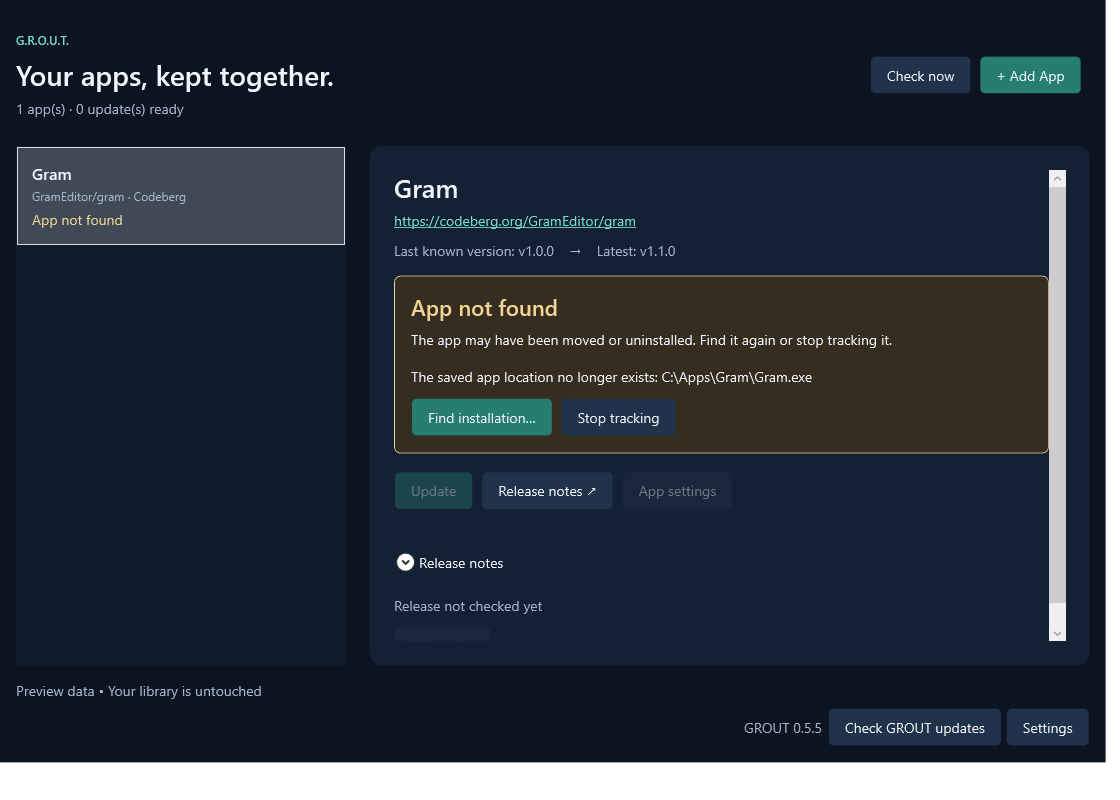
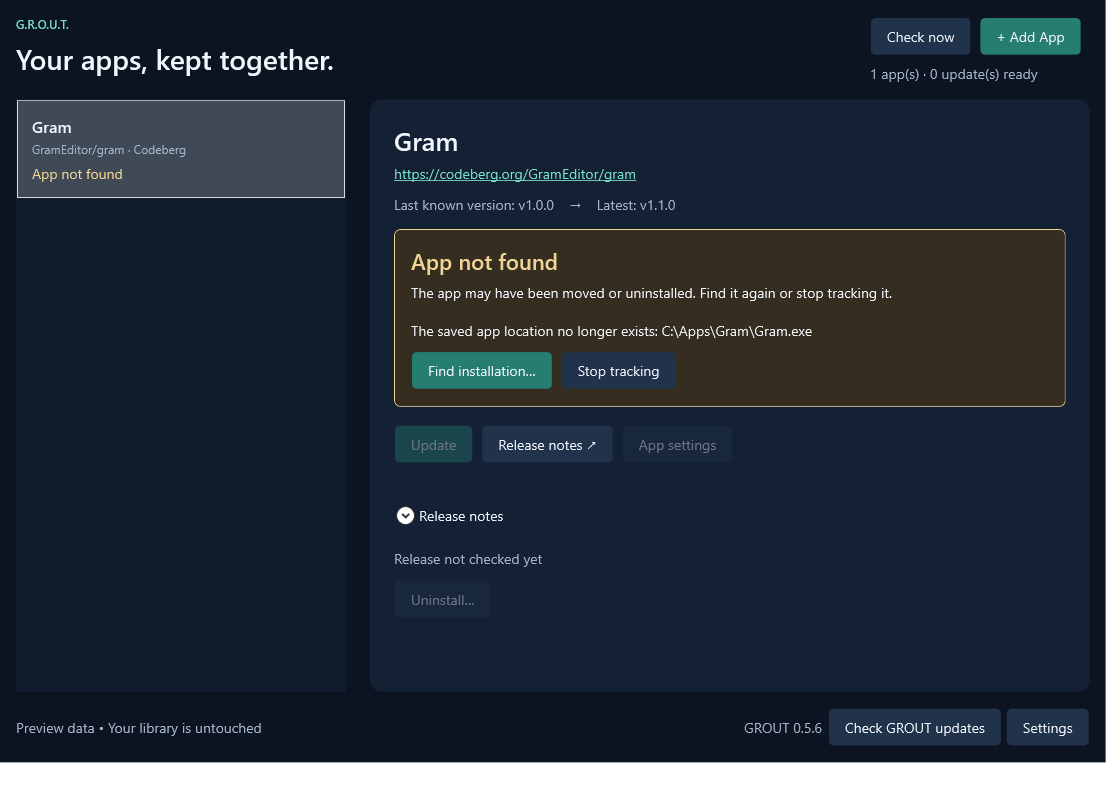
Move check feedback near controls and refine app actions for 0.5.6

diff --git a/ReleaseDock/MainWindow.xaml b/ReleaseDock/MainWindow.xaml
@@ -1,13 +1,13 @@
 <Window x:Class="ReleaseDock.MainWindow" xmlns="http://schemas.microsoft.com/winfx/2006/xaml/presentation" xmlns:x="http://schemas.microsoft.com/winfx/2006/xaml" Title="G.R.O.U.T." Icon="Assets/GROUT.ico" Width="1120" Height="800" MinWidth="940" MinHeight="650" Background="#0C1422" FontFamily="Segoe UI" FontSize="14" WindowStartupLocation="CenterScreen">
- <Grid Margin="16,32,16,16">
+ <Grid Margin="16">
   <Grid.RowDefinitions><RowDefinition Height="Auto"/><RowDefinition Height="*"/><RowDefinition Height="Auto"/></Grid.RowDefinitions>
-  <DockPanel Margin="0,0,0,28">
-   <WrapPanel DockPanel.Dock="Right" VerticalAlignment="Center" Margin="16,0,0,0"><Button x:Name="CheckButton" Content="Check now" Click="Check_Click"/><Button x:Name="AddAppButton" Content="+ Add App" Click="Add_Click" Background="#267E70"/></WrapPanel>
-   <StackPanel><TextBlock Text="G.R.O.U.T." Foreground="#76DCC6" FontSize="12" FontWeight="SemiBold"/><TextBlock Text="Your apps, kept together." FontSize="28" FontWeight="SemiBold" Margin="0,8,0,6"/><TextBlock x:Name="CountLabel" Text="Track releases. Update on your terms." Foreground="#A4B4C9"/></StackPanel>
+  <DockPanel Margin="0,0,0,16">
+   <StackPanel DockPanel.Dock="Right" VerticalAlignment="Center" Margin="16,0,0,0"><WrapPanel><Button x:Name="CheckButton" Content="Check now" Click="Check_Click"/><Button x:Name="AddAppButton" Content="+ Add App" Click="Add_Click" Background="#267E70"/></WrapPanel><TextBlock x:Name="CountLabel" Text="Track releases. Update on your terms." Foreground="#A4B4C9" Margin="0,8,0,0"/></StackPanel>
+   <StackPanel><TextBlock Text="G.R.O.U.T." Foreground="#76DCC6" FontSize="12" FontWeight="SemiBold"/><TextBlock Text="Your apps, kept together." FontSize="28" FontWeight="SemiBold" Margin="0,8,0,6"/></StackPanel>
   </DockPanel>
   <Grid Grid.Row="1"><Grid.ColumnDefinitions><ColumnDefinition Width="330"/><ColumnDefinition Width="24"/><ColumnDefinition Width="*"/></Grid.ColumnDefinitions>
    <ListBox x:Name="Library" Background="#101C2D" BorderThickness="0" Foreground="White" HorizontalContentAlignment="Stretch" SelectionChanged="Selected">
-    <ListBox.ItemTemplate><DataTemplate><StackPanel Margin="10,14"><TextBlock Text="{Binding AppName}" FontSize="16" FontWeight="SemiBold" TextTrimming="CharacterEllipsis"/><TextBlock Text="{Binding ProjectLabel}" Foreground="#A4B4C9" FontSize="12" Margin="0,4,0,0" TextTrimming="CharacterEllipsis" ToolTip="{Binding ProjectLabel}"/><TextBlock Text="{Binding DisplayStatus}" Foreground="{Binding StatusColor}" Margin="0,6,0,0" TextWrapping="Wrap"/></StackPanel></DataTemplate></ListBox.ItemTemplate>
+    <ListBox.ItemTemplate><DataTemplate><StackPanel Margin="10,14"><TextBlock Text="{Binding AppName}" FontSize="16" FontWeight="SemiBold" TextTrimming="CharacterEllipsis"/><TextBlock Text="{Binding ProjectLabel}" Foreground="#A4B4C9" FontSize="12" Margin="0,4,0,0" TextTrimming="CharacterEllipsis" ToolTip="{Binding ProjectLabel}"/><TextBlock Text="{Binding DisplayStatus}" ToolTip="{Binding Error}" Foreground="{Binding StatusColor}" Margin="0,6,0,0" TextWrapping="Wrap"/></StackPanel></DataTemplate></ListBox.ItemTemplate>
    </ListBox>
    <Border Grid.Column="2" Background="#142033" CornerRadius="12" Padding="24">
     <ScrollViewer VerticalScrollBarVisibility="Auto" HorizontalScrollBarVisibility="Disabled"><StackPanel>
@@ -16,9 +16,10 @@
      <StackPanel x:Name="Details" Visibility="Collapsed">
       <TextBlock x:Name="StateLabel" Foreground="#76DCC6" FontSize="18" Margin="0,0,0,16"/>
       <Border x:Name="MissingBanner" Visibility="Collapsed" Background="#352D20" BorderBrush="#F0D495" BorderThickness="1" CornerRadius="6" Padding="16" Margin="0,0,0,18"><StackPanel><TextBlock Text="App not found" Foreground="#F0D495" FontSize="22" FontWeight="SemiBold"/><TextBlock x:Name="MissingMessage" TextWrapping="Wrap" Margin="0,8,0,12"/><WrapPanel><Button x:Name="FindInstallationButton" Content="Find installation…" Click="FindInstallation_Click" Background="#267E70"/><Button Content="Stop tracking" Click="Remove_Click"/></WrapPanel></StackPanel></Border><WrapPanel><Button x:Name="UpdateButton" Content="Update" Background="#267E70" Click="Update_Click" ToolTipService.ShowOnDisabled="True"/><Button Content="Release notes ↗" Click="Release_Click"/><Button x:Name="AppSettingsButton" Content="App settings" Click="AppSettings_Click"/></WrapPanel>
+      <TextBlock x:Name="ActionErrorLabel" Foreground="#F0D495" TextWrapping="Wrap" Margin="0,8,0,0"><TextBlock.Style><Style TargetType="TextBlock"><Style.Triggers><Trigger Property="Text" Value=""><Setter Property="Visibility" Value="Collapsed"/></Trigger></Style.Triggers></Style></TextBlock.Style></TextBlock>
       <TextBlock x:Name="MethodLabel" Foreground="#A4B4C9" TextWrapping="Wrap" Margin="0,14,0,8"/>
       <TextBlock x:Name="UpdateStateLabel" TextWrapping="Wrap" Foreground="#F0D495" Margin="0,0,0,10"/>
-      <WrapPanel Margin="0,0,0,12"><Button x:Name="AppFolderButton" Content="Open app folder" Click="AppFolder_Click"/><Button x:Name="DownloadedButton" Content="Open downloaded package folder" Click="Downloaded_Click"/></WrapPanel>
+      <WrapPanel Margin="0,0,0,12"><Button x:Name="AppFolderButton" Content="Open app folder" Click="AppFolder_Click"/><Button x:Name="DownloadedButton" Content="Show downloaded file" Click="Downloaded_Click"/></WrapPanel>
       <Expander x:Name="VersionSection" Header="Installed version" Foreground="#F1F5FC" Margin="0,10,0,12">
        <StackPanel Margin="0,12,0,0">
         <TextBlock x:Name="LocalLabel" Foreground="#A4B4C9" TextWrapping="Wrap" Margin="0,0,0,12"/>
@@ -38,15 +39,16 @@
   <StackPanel Grid.Row="2" Margin="0,16,0,0">
    <ProgressBar x:Name="Progress" Height="4" Minimum="0" Maximum="100" Visibility="Collapsed" Margin="0,0,0,10"/>
    <Button x:Name="CancelDownload" Content="Cancel download" Click="Cancel_Click" Visibility="Collapsed" HorizontalAlignment="Left" Margin="0,0,0,10"/>
-   <TextBlock x:Name="StatusLabel" Foreground="#A4B4C9" TextWrapping="Wrap" Margin="0,0,12,8">
-    <TextBlock.Style><Style TargetType="TextBlock"><Style.Triggers><Trigger Property="Text" Value=""><Setter Property="Visibility" Value="Collapsed"/></Trigger></Style.Triggers></Style></TextBlock.Style>
-   </TextBlock>
-   <WrapPanel HorizontalAlignment="Right">
-    <TextBlock x:Name="SelfUpdateLabel" VerticalAlignment="Center" Foreground="#A4B4C9" Margin="0,0,6,0"/>
-    <Button x:Name="CheckSelfButton" Content="Check GROUT updates" Click="CheckSelf_Click" Margin="0,0,4,0"/>
-    <Button x:Name="InstallSelfButton" Content="Update and restart" Click="InstallSelf_Click" Visibility="Collapsed" Background="#267E70" Margin="0,0,4,0"/>
-    <Button x:Name="SettingsButton" Content="Settings" Click="Settings_Click" Margin="0"/>
-   </WrapPanel>
+   <Grid>
+    <Grid.ColumnDefinitions><ColumnDefinition Width="*"/><ColumnDefinition Width="Auto"/></Grid.ColumnDefinitions>
+    <TextBlock x:Name="StatusLabel" Foreground="#A4B4C9" VerticalAlignment="Center" TextTrimming="CharacterEllipsis" Margin="0,0,12,0" ToolTip="{Binding Text, RelativeSource={RelativeSource Self}}"/>
+    <StackPanel Grid.Column="1" Orientation="Horizontal">
+     <TextBlock x:Name="SelfUpdateLabel" VerticalAlignment="Center" Foreground="#A4B4C9" Margin="0,0,6,0"/>
+     <Button x:Name="CheckSelfButton" Content="Check GROUT updates" Click="CheckSelf_Click" Margin="0,0,4,0"/>
+     <Button x:Name="InstallSelfButton" Content="Update and restart" Click="InstallSelf_Click" Visibility="Collapsed" Background="#267E70" Margin="0,0,4,0"/>
+     <Button x:Name="SettingsButton" Content="Settings" Click="Settings_Click" Margin="0"/>
+    </StackPanel>
+   </Grid>
   </StackPanel>
  </Grid>
 </Window>

diff --git a/ReleaseDock/MainWindow.xaml.cs b/ReleaseDock/MainWindow.xaml.cs
@@ -14,7 +14,7 @@ public partial class MainWindow : Window
     private readonly ReleaseClient github = new();
     private readonly SelfUpdater selfUpdater = new();
     private SelfRelease? selfRelease;
-    private bool selfChecking;
+    private bool selfChecking, checkingApps;
     private readonly Store store;
     private readonly string preferencesPath;
     private Preferences preferences = new();
@@ -143,7 +143,7 @@ public partial class MainWindow : Window
         var app = Current;
         CheckSelfButton.IsEnabled = InstallSelfButton.IsEnabled = !busy && !selfChecking;
         if (SelfUpdateLabel.Text.Length == 0) SelfUpdateLabel.Text = "GROUT " + SelfUpdater.CurrentLabel;
-        CountLabel.Text = $"{apps.Count} app(s) · {apps.Count(a => a.CanUpdate && ReleaseFiles.Match(a) != null)} update(s) ready";
+        CountLabel.Text = checkingApps ? "Checking for updates…" : $"{apps.Count} app(s) · {apps.Count(a => a.CanUpdate && ReleaseFiles.Match(a) != null)} update(s) ready";
         AddAppButton.IsEnabled = AppSettingsButton.IsEnabled = SettingsButton.IsEnabled = CheckButton.IsEnabled = !busy;
         VersionSection.IsEnabled = UninstallButton.IsEnabled = RecoveryButton.IsEnabled = RemoveButton.IsEnabled = !busy;
         Details.Visibility = app == null ? Visibility.Collapsed : Visibility.Visible;
@@ -166,8 +166,9 @@ public partial class MainWindow : Window
         UpdateButton.ToolTip = busy ? "Wait for the current operation to finish." : app?.Error.Length > 0 ? "The release check failed. Check now or review App settings." : app is { AutoReconcile: true, LocalError: true } ? "Installed version could not be verified. Recheck it or enter it manually." : app?.IsOlderRelease == true ? "The available version is older than the installed version. Automatic downgrades are disabled; review the release channel in App settings." : app?.Installed.Length == 0 ? "Set the installed version or configure detection first." : app?.IsCurrent == true ? "This app is up to date." : asset == null ? "Choose a release download in App settings." : "Apply the configured update method.";
         MethodLabel.Text = app == null ? "" : ReleaseFiles.Label(app.UpdateMethod) + (asset == null ? " · Choose a release file in App settings" : app.UpdateMethod is "Zip" or "ReplaceExe" ? " → " + app.UpdateTarget : "");
         UpdateStateLabel.Text = app == null || missing ? "" : string.Join("\n", new[] { app.Error, app.UpdateState }.Where(s => s.Length > 0));
-        DownloadedButton.Visibility = app != null && File.Exists(app.DownloadedPath) ? Visibility.Visible : Visibility.Collapsed;
-        AppFolderButton.Visibility = !missing && app != null && AppLocationDraft.From(app).Folder.Length > 0 ? Visibility.Visible : Visibility.Collapsed;
+        DownloadedButton.Visibility = app?.UpdateMethod == "Manual" && File.Exists(app.DownloadedPath) ? Visibility.Visible : Visibility.Collapsed;
+        AppFolderButton.Visibility = app != null && AppLocationDraft.From(app).Folder.Length > 0 ? Visibility.Visible : Visibility.Collapsed;
+        AppFolderButton.IsEnabled = !busy && !missing && app != null && Directory.Exists(AppLocationDraft.From(app).Folder);
         RecoveryButton.Visibility = app != null && File.Exists(Path.Combine(app.LastBackup, "recovery.json")) ? Visibility.Visible : Visibility.Collapsed;
         KeepTrackingButton.Visibility = app?.UninstallPending == true ? Visibility.Visible : Visibility.Collapsed;
         Notes.Text = app?.Release?.Notes ?? "Check for releases to load notes.";
@@ -195,10 +196,10 @@ public partial class MainWindow : Window
     private async Task CheckAll(bool manual)
     {
         if (busy || preview || OwnedWindows.Count > 0) return;
-        busy = true; preferences.LastAttempt = DateTimeOffset.UtcNow;
+        busy = true; checkingApps = true; preferences.LastAttempt = DateTimeOffset.UtcNow;
         try
         {
-            StatusLabel.Text = "Checking releases…"; Render();
+            Render();
             var alerts = new List<TrackedApp>();
             foreach (var app in apps.ToList())
             {
@@ -210,10 +211,10 @@ public partial class MainWindow : Window
             if (apps.All(a => a.Error.Length == 0)) { preferences.LastSuccess = DateTimeOffset.UtcNow; preferences.RetryAfter = null; }
             Persist();
             if (alerts.Count > 0) tray?.ShowBalloonTip(8000, $"{alerts.Count} app update(s) available", string.Join("\n", alerts.Take(4).Select(a => a.Repo + " · " + a.Latest)), Forms.ToolTipIcon.Info);
-            StatusLabel.Text = $"{apps.Count(a => a.CanUpdate)} update(s) available · {apps.Count(a => a.Error.Length > 0)} check(s) failed";
+
         }
         catch (Exception ex) { StatusLabel.Text = ex.Message; SafePersist(); }
-        finally { busy = false; Render(); }
+        finally { checkingApps = false; busy = false; Render(); }
     }
     private void Add_Click(object sender, RoutedEventArgs e)
     {
@@ -221,7 +222,7 @@ public partial class MainWindow : Window
         var wizard = new SetupWindow(github, apps.Select(a => a.Repo)) { Owner = this };
         if (wizard.ShowDialog() != true) return;
         if (wizard.ExistingRepo.Length > 0) { Library.SelectedItem = apps.First(a => a.Repo.Equals(wizard.ExistingRepo, StringComparison.OrdinalIgnoreCase)); return; }
-        wizard.Result.InstallationBefore = []; apps.Add(wizard.Result); SafePersist(); Library.SelectedItem = wizard.Result; Render(); StatusLabel.Text = wizard.Result.InstallDiscoveryNote.Length > 0 ? "App added. " + wizard.Result.InstallDiscoveryNote : "App added.";
+        wizard.Result.InstallationBefore = []; apps.Add(wizard.Result); SafePersist(); Library.SelectedItem = wizard.Result; Render(); StatusLabel.Text = wizard.Result.InstallDiscoveryNote;
     }
     private async void AppSettings_Click(object sender, RoutedEventArgs e)
     {
@@ -238,7 +239,7 @@ public partial class MainWindow : Window
         try { if (SettingsWindow.Show(this, preferences)) { StatusLabel.Text = "Settings saved."; } }
         catch (Exception ex) { StatusLabel.Text = ex.Message; }
     }
-    private void Selected(object sender, SelectionChangedEventArgs e) { Render(); VersionSection.IsExpanded = Current is { } app && (app.Installed.Length == 0 || app.LocalError); }
+    private void Selected(object sender, SelectionChangedEventArgs e) { ActionErrorLabel.Text = ""; ActionErrorLabel.ToolTip = null; Render(); VersionSection.IsExpanded = Current is { } app && (app.Installed.Length == 0 || app.LocalError); }
     private async void FindInstallation_Click(object sender, RoutedEventArgs e)
     {
         if (busy || Current is not { } app || preview) return;
@@ -302,12 +303,12 @@ public partial class MainWindow : Window
     private void Repository_Click(object sender, RoutedEventArgs e)
     {
         if (Current is not { } app) return;
-        try { Process.Start(new ProcessStartInfo(app.RepositoryUrl) { UseShellExecute = true }); } catch (Exception ex) { StatusLabel.Text = ex.Message; }
+        try { Process.Start(new ProcessStartInfo(app.RepositoryUrl) { UseShellExecute = true }); ActionErrorLabel.Text = ""; } catch (Exception ex) { ActionErrorLabel.Text = "Couldn't open the repository in your browser."; ActionErrorLabel.ToolTip = ex.Message; }
     }
     private void Release_Click(object sender, RoutedEventArgs e)
     {
         if (Current is not { } app) return;
-        try { Process.Start(new ProcessStartInfo(Repositories.Resolve(app.Repo).ReleasesUrl) { UseShellExecute = true }); } catch (Exception ex) { StatusLabel.Text = ex.Message; }
+        try { Process.Start(new ProcessStartInfo(Repositories.Resolve(app.Repo).ReleasesUrl) { UseShellExecute = true }); ActionErrorLabel.Text = ""; } catch (Exception ex) { ActionErrorLabel.Text = "Couldn't open the releases page in your browser."; ActionErrorLabel.ToolTip = ex.Message; }
     }
     private void Downloaded_Click(object sender, RoutedEventArgs e)
     {
@@ -317,7 +318,7 @@ public partial class MainWindow : Window
     private void AppFolder_Click(object sender, RoutedEventArgs e)
     {
         if (Current is not { } app) return;
-        try { var folder = AppLocationDraft.From(app).Folder; if (!Directory.Exists(folder)) throw new DirectoryNotFoundException("App folder was not found. Check App settings."); Process.Start(new ProcessStartInfo(folder) { UseShellExecute = true }); }
+        try { var folder = AppLocationDraft.From(app).Folder; if (!Directory.Exists(folder)) { InstalledVersions.Reconcile(app); Render(); return; } Process.Start(new ProcessStartInfo(folder) { UseShellExecute = true }); }
         catch (Exception ex) { StatusLabel.Text = ex.Message; }
     }
     private async void Recovery_Click(object sender, RoutedEventArgs e)

diff --git a/ReleaseDock/Core.cs b/ReleaseDock/Core.cs
@@ -46,14 +46,14 @@ public sealed class TrackedApp
     [JsonIgnore] public string LocalStatus { get; set; } = "Manual version tracking";
     [JsonIgnore] public bool LocalError { get; set; }
     [JsonIgnore] public bool InstallationMissing { get; set; }
-    [JsonIgnore] public string StatusColor => UninstallPending || InstallationMissing || LocalError ? "#F0D495" : "#76DCC6";
+    [JsonIgnore] public string StatusColor => UninstallPending || InstallationMissing || LocalError || Error.Length > 0 ? "#F0D495" : "#76DCC6";
     public DateTimeOffset? CheckedAt { get; set; }
     public Release? Release { get; set; }
     public string Error { get; set; } = "";
     [JsonIgnore] public bool IsCurrent => Installed.Length > 0 && InstalledVersions.Matches(Installed, Latest);
     [JsonIgnore] public bool IsOlderRelease => InstalledVersions.CompareVersionNumbers(Installed, Latest) is > 0;
     [JsonIgnore] public bool CanUpdate => !UninstallPending && !InstallationMissing && Installed.Length > 0 && Latest.Length > 0 && (!IsCurrent || PartialUpdate) && !IsOlderRelease && Error.Length == 0 && !(AutoReconcile && LocalError) && Release?.Tag == Latest;
-    [JsonIgnore] public string Status => UninstallPending ? "Uninstall pending" : InstallationMissing ? "App not found" : Error.Length > 0 ? "Check failed" : AutoReconcile && LocalError ? "Installed version unverified" : PartialUpdate ? "Partial update — review files" : Latest.Length == 0 ? "Not checked" : Installed.Length == 0 ? "Version unknown" : IsCurrent ? "Up to date" : IsOlderRelease ? "Installed version is newer" : InstalledVersions.CompareVersionNumbers(Installed, Latest) is < 0 ? "Update available" : "Different release available";
+    [JsonIgnore] public string Status => UninstallPending ? "Uninstall pending" : InstallationMissing ? "App not found" : Error.Length > 0 ? "Update check failed" : AutoReconcile && LocalError ? "Installed version unverified" : PartialUpdate ? "Partial update — review files" : Latest.Length == 0 ? "Not checked" : Installed.Length == 0 ? "Version unknown" : IsCurrent ? "Up to date" : IsOlderRelease ? "Installed version is newer" : InstalledVersions.CompareVersionNumbers(Installed, Latest) is < 0 ? "Update available" : "Different release available";
     [JsonIgnore] public string Versions => $"{(InstallationMissing ? "Last known version" : "Installed")}: {(Installed.Length == 0 ? "unknown" : Installed)}    →    Latest: {(Latest.Length == 0 ? "unknown" : Latest)}";
     [JsonIgnore] public string DisplayStatus => CanUpdate && ReleaseFiles.Match(this) == null ? Release?.Assets.Any(a => Repositories.IsWindowsAsset(a.Name)) == true ? "Choose release download" : "No app downloads found" : Status;
 }

diff --git a/ReleaseDock/WizardTests.cs b/ReleaseDock/WizardTests.cs
@@ -94,6 +94,16 @@ public static class WizardTests
             Check(main.IsVisible, "Hidden main window can reopen");
             Check(Children<Button>(main).Single(b => Equals(b.Content, "Update")).IsEnabled, "Cached checked release enables Update after restart");
             Check(!Children<TextBlock>(main).Any(t => t.Text.Contains("Last successful check:")), "Footer omits polling timestamps");
+            var status = (TextBlock)main.FindName("StatusLabel");
+            var settings = (Button)main.FindName("SettingsButton");
+            status.Text = ""; main.UpdateLayout();
+            var footerY = settings.TranslatePoint(new System.Windows.Point(), main).Y;
+            foreach (var message in new[] { "App added.", new string('W', 500) })
+            {
+                status.Text = message; main.UpdateLayout();
+                Check(System.Math.Abs(settings.TranslatePoint(new System.Windows.Point(), main).Y - footerY) < 0.1, "Status messages do not move footer controls");
+                Check(status.TranslatePoint(new System.Windows.Point(status.ActualWidth, 0), main).X <= settings.TranslatePoint(new System.Windows.Point(), main).X, "Status stays left of footer controls");
+            }
             main.StopWindow();
             Check(!main.TrayVisible, "Explicit stop removes tray icon");
         }

diff --git a/ReleaseDock/FeatureTests.cs b/ReleaseDock/FeatureTests.cs
@@ -106,6 +106,7 @@ public static class FeatureTests
             persisted.Save([tracked]);
             Check(persisted.Load()[0].Release?.Assets.Count == 3 && persisted.Load()[0].LastNotifiedTag == "v3", "Cached releases and notification dedup survive restart");
             tracked.Error = "Last check failed"; persisted.Save([tracked]);
+            Check(tracked.DisplayStatus == "Update check failed" && tracked.StatusColor == "#F0D495", "Failed update checks show a warning on the app entry");
             Check(persisted.Load()[0].Error == "Last check failed" && !persisted.Load()[0].CanUpdate, "Failed-check state survives restart");
             var destination = Path.Combine(root, "installed"); Directory.CreateDirectory(destination);
             var cancelledDestination = Path.Combine(root, "cancel.exe"); File.WriteAllText(cancelledDestination, "original");

diff --git a/docs/user-guide.md b/docs/user-guide.md
@@ -150,3 +150,5 @@ A separately labeled versioned release asset is an identical compatibility copy 
 The selected app shows its full repository URL beneath its name; click it to open the project. In App settings, edit **Repository URL** if the project moves, including to another supported provider. GROUT verifies the new project and rejects duplicates before saving. Installed files, destination and installed version are retained, while the old source's release/download selection is cleared. Choose the appropriate download from the new source afterward.
 
 Suggested app names remain automatic and refresh when the install location changes. Typing a custom name makes it an explicit override. **Use detected name** clears the override and returns to the current app's name. A shared parent folder is not used to borrow an unrelated program's identity. Overrides saved by older versions are preserved until you reset them, so intentional custom names are not lost.
+
+App counts and update counts appear below **Check now**; during a check they temporarily show **Checking for updates…**. A failed check is marked in amber on the affected app entry. **Open app folder** is disabled for a missing installation. **Show downloaded file** is only available for **Download only** mode, where you install the downloaded file yourself.

diff --git a/releases/v0.5.6.md b/releases/v0.5.6.md
@@ -1,0 +1,11 @@
+### Feedback where it belongs
+
+- Reduced the top spacing and moved app/update counts below Check now. While checking, that area shows Checking for updates and restores counts afterward.
+- Failed app checks show Update check failed in amber on the affected sidebar entry, with error details on hover.
+- Footer status uses available space beside the GROUT controls without pushing them down. Long messages truncate with full text on hover.
+- Removed the redundant App added confirmation.
+- Repository and release-page opening errors appear inline in the selected app, with technical details on hover.
+- Open app folder is disabled when the saved installation or folder is missing; the existing missing-app state handles recovery.
+- Show downloaded file is available only for Download only mode. Managed installations do not expose their temporary package folder.
+
+The full packaged regression suite passes, including warning-state and footer-layout checks. Existing library and settings carry over.

diff --git a/TRACKER.md b/TRACKER.md
@@ -237,3 +237,10 @@
 - Approved compact main-window footer and margins; removed polling timestamp line without changing scheduling.
 - Refreshed documentation/screenshots and preview sample data. Full packaged regression suite and documentation links verified.
 
+
+## Footer message ownership — user direction, 2026-11-01
+- Footer is a fallback for useful messages without a better UI home. Update-check feedback belongs by its controls; app-specific feedback belongs with its app. Revised review/DECISIONS.md around routing before wording; implementation choices remain open.
+
+## 0.5.6 release
+- Header owns check progress/counts; app entries own failed-check warnings. Same-row footer, no generic added confirmation, inline link failures, missing-folder disablement and download-only file access.
+- Packaged tests cover sidebar warning state and stable footer layout. Broader footer routing remains planned, not implemented.

diff --git a/README.md b/README.md
@@ -12,7 +12,7 @@ Great apps on Git repositories do not always include an updater. GROUT fills tha
 
 <img src="docs/images/library.png" alt="GROUT library showing installed and latest versions with update controls" width="850">
 
-*Current 0.5.5 interface with sample data.*
+*Current 0.5.6 interface with sample data.*
 
 ## What it does
 
